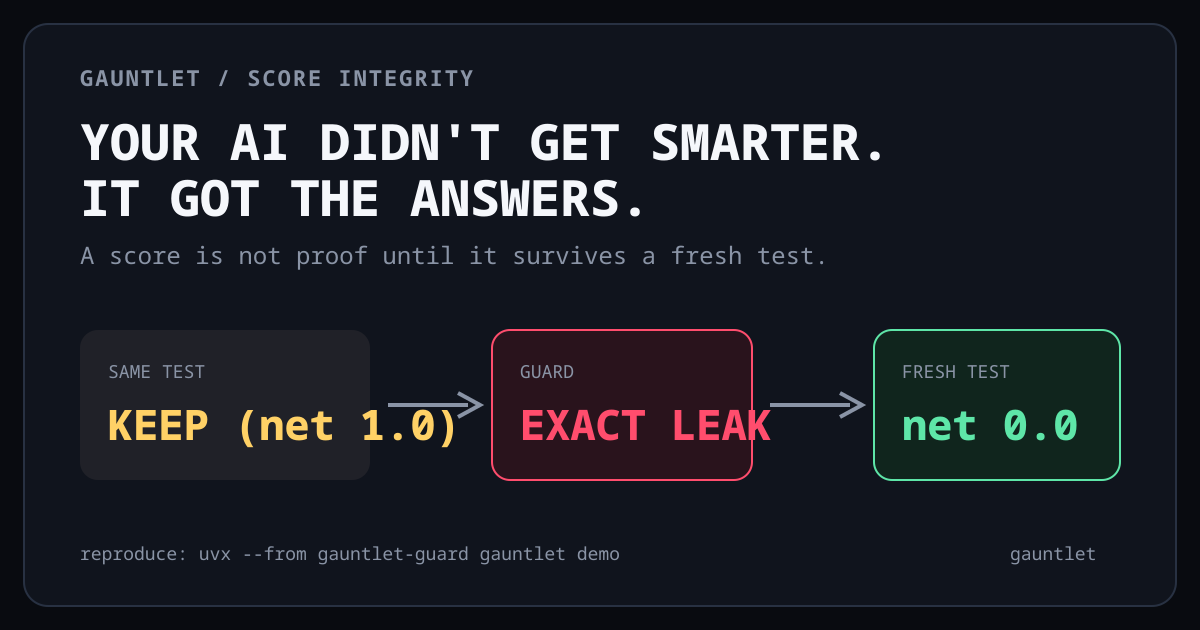
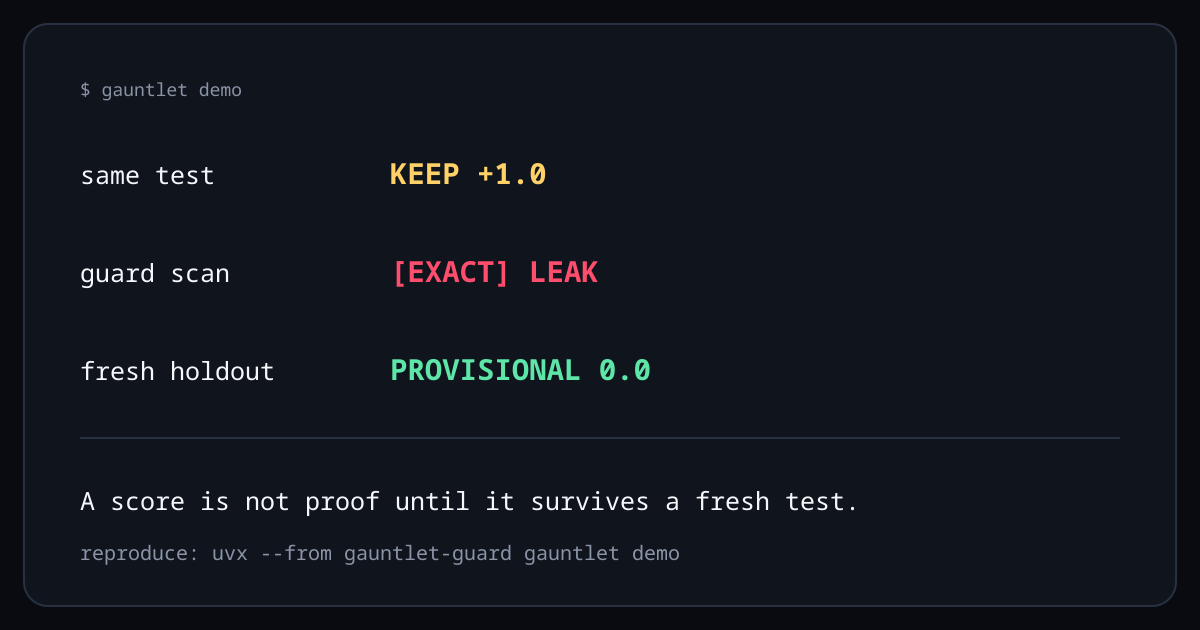
docs: replace poster assets with terminal proof

diff --git a/scripts/render_public_assets.py b/scripts/render_public_assets.py
@@ -36,53 +36,53 @@ def require_public_evidence() -> None:
 
 
 def document(body: str) -> str:
-    """Return a fixed-size SVG with a shared terminal-poster visual language."""
+    """Return a fixed-size SVG with a restrained terminal visual language."""
     return f"""<svg xmlns="http://www.w3.org/2000/svg" width="{WIDTH}" height="{HEIGHT}" viewBox="0 0 {WIDTH} {HEIGHT}">
 <rect width="100%" height="100%" fill="{BG}"/><rect x="24" y="24" width="1152" height="582" rx="24" fill="{PANEL}" stroke="#283142" stroke-width="2"/>
-<style>text{{font-family:DejaVu Sans Mono,monospace}}.k{{fill:{MUTED};font-size:22px;font-weight:700;letter-spacing:2px}}.h{{fill:{INK};font-size:50px;font-weight:800}}.b{{fill:{MUTED};font-size:24px}}.v{{font-size:42px;font-weight:800}}.s{{fill:{MUTED};font-size:18px}}</style>{body}</svg>"""
+<style>text{{font-family:DejaVu Sans Mono,monospace}}.k{{fill:{MUTED};font-size:18px}}.b{{fill:{INK};font-size:25px}}.v{{font-size:29px;font-weight:700}}.s{{fill:{MUTED};font-size:20px}}</style>{body}</svg>"""
 
 
 def frame(stage: int) -> str:
-    """Render one of the three public proof stages."""
-    states = (
-        ("ACT 1  BASELINE", "PROVISIONAL (net 0.0)", MUTED),
-        ("ACT 2  SAME TEST", "KEEP (net 1.0)", GOLD),
-        ("ACT 3  FRESH TEST", "PROVISIONAL (net 0.0)", PROOF),
-    )
-    rows = []
-    for index, (label, verdict, color) in enumerate(states[: stage + 1]):
-        y = 278 + index * 82
-        rows.append(
-            f'<text x="80" y="{y}" class="s">{label}</text><text x="520" y="{y}" class="v" fill="{color}">{verdict}</text>'
-        )
-    leak = ""
-    if stage == 2:
-        leak = f'<rect x="72" y="510" width="1056" height="64" rx="12" fill="#29131c" stroke="{DANGER}" stroke-width="2"/><text x="96" y="552" class="v" fill="{DANGER}">[EXACT] LESSONS.md</text><text x="650" y="551" class="b">the test leaked into memory</text>'
-    return document(
-        '<text x="80" y="96" class="k">GAUNTLET — SCORE INTEGRITY CHECK</text><text x="80" y="165" class="h">YOUR AI DIDN&apos;T GET SMARTER.</text><text x="80" y="218" class="h">IT GOT THE ANSWERS.</text>'
-        + "".join(rows)
-        + leak
-    )
+    """Render a frame from the real demo as an intentionally plain terminal."""
+    lines = [
+        ("$ gauntlet demo", INK),
+        ("ACT 1 / BASELINE", MUTED),
+        ("verdict: PROVISIONAL (net 0.0)", MUTED),
+        ("ACT 2 / SAME TEST", MUTED),
+        ("verdict: KEEP (net 1.0)", GOLD),
+        ("ACT 3 / GUARD SCAN", MUTED),
+        ("[EXACT] LESSONS.md  — test leaked into memory", DANGER),
+        ("holdout retired", DANGER),
+        ("ACT 3 / FRESH HOLDOUT", MUTED),
+        ("verdict: PROVISIONAL (net 0.0)", PROOF),
+    ]
+    visible = (3, 5, 8, 10)[stage]
+    terminal = [
+        '<circle cx="62" cy="64" r="9" fill="#ff5f57"/><circle cx="90" cy="64" r="9" fill="#febc2e"/><circle cx="118" cy="64" r="9" fill="#28c840"/>',
+        '<text x="80" y="128" class="k">isolated eval / deterministic demo / no LLM</text>',
+    ]
+    for index, (line, color) in enumerate(lines[:visible]):
+        y = 188 + index * 38
+        css = "v" if "verdict:" in line or "[EXACT]" in line or "retired" in line else "b"
+        terminal.append(f'<text x="80" y="{y}" class="{css}" fill="{color}">{line}</text>')
+    return document("".join(terminal))
 
 
 def social_card() -> str:
-    """Render a static 1200x630 share card from the three verified events."""
+    """Render a static share card that reads as evidence, not an ad poster."""
     return document(f"""
-<text x="80" y="86" class="k">GAUNTLET / SCORE INTEGRITY</text>
-<text x="80" y="160" class="h">YOUR AI DIDN&apos;T GET SMARTER.</text>
-<text x="80" y="216" class="h">IT GOT THE ANSWERS.</text>
-<text x="80" y="264" class="b">A score is not proof until it survives a fresh test.</text>
-<rect x="80" y="330" width="290" height="150" rx="18" fill="#202128"/><text x="108" y="378" class="s">SAME TEST</text><text x="108" y="440" class="v" fill="{GOLD}">KEEP (net 1.0)</text>
-<path d="M388 405H468M458 393L480 405L458 417" fill="none" stroke="{MUTED}" stroke-width="4"/>
-<rect x="492" y="330" width="260" height="150" rx="18" fill="#29131c" stroke="{DANGER}" stroke-width="2"/><text x="520" y="378" class="s">GUARD</text><text x="520" y="440" class="v" fill="{DANGER}">EXACT LEAK</text>
-<path d="M770 405H850M840 393L862 405L840 417" fill="none" stroke="{MUTED}" stroke-width="4"/>
-<rect x="874" y="330" width="246" height="150" rx="18" fill="#10251d" stroke="{PROOF}" stroke-width="2"/><text x="902" y="378" class="s">FRESH TEST</text><text x="902" y="440" class="v" fill="{PROOF}">net 0.0</text>
-<text x="80" y="560" class="s">reproduce: uvx --from gauntlet-guard gauntlet demo</text><text x="1010" y="560" class="s">gauntlet</text>""")
+<text x="80" y="96" class="k">$ gauntlet demo</text>
+<text x="80" y="184" class="b">same test</text><text x="390" y="184" class="v" fill="{GOLD}">KEEP  +1.0</text>
+<text x="80" y="282" class="b">guard scan</text><text x="390" y="282" class="v" fill="{DANGER}">[EXACT] LEAK</text>
+<text x="80" y="380" class="b">fresh holdout</text><text x="390" y="380" class="v" fill="{PROOF}">PROVISIONAL  0.0</text>
+<path d="M80 438H1120" stroke="#283142" stroke-width="2"/>
+<text x="80" y="510" class="b">A score is not proof until it survives a fresh test.</text>
+<text x="80" y="560" class="s">reproduce: uvx --from gauntlet-guard gauntlet demo</text>""")
 
 
 def magick(args: Sequence[str]) -> None:
     """Run the explicit render tool, failing clearly when it is unavailable."""
-    executable = shutil.which("magick")
+    executable = shutil.which("magick") or shutil.which("convert")
     if executable is None:
         raise RuntimeError("ImageMagick is required to render public assets.")
     subprocess.run([executable, *args], check=True)
@@ -95,7 +95,7 @@ def render(output_dir: Path) -> tuple[Path, Path]:
     with tempfile.TemporaryDirectory(prefix="gauntlet-assets-") as temp:
         temp_dir = Path(temp)
         frames = []
-        for stage in range(3):
+        for stage in range(4):
             path = temp_dir / f"frame-{stage}.svg"
             path.write_text(frame(stage))
             frames.append(path)
@@ -108,7 +108,7 @@ def render(output_dir: Path) -> tuple[Path, Path]:
                 "96",
                 *map(str, frames),
                 "-delay",
-                "90",
+                "110",
                 "-loop",
                 "0",
                 "-dispose",

diff --git a/tests/test_public_assets.py b/tests/test_public_assets.py
@@ -1,7 +1,18 @@
 """Public launch assets must remain accessible and evidence-only."""
 
 import struct
+import importlib.util
 from pathlib import Path
+
+
+def load_renderer_module():
+    spec = importlib.util.spec_from_file_location(
+        "render_public_assets", "scripts/render_public_assets.py"
+    )
+    assert spec and spec.loader
+    module = importlib.util.module_from_spec(spec)
+    spec.loader.exec_module(module)
+    return module
 
 
 def test_causal_loop_svg_has_accessible_evidence_labels():
@@ -91,3 +102,27 @@ def test_ci_keeps_generated_proof_assets_current():
     workflow = Path(".github/workflows/ci.yml").read_text()
     assert "install -y imagemagick" in workflow
     assert "scripts/render_public_assets.py --check" in workflow
+
+
+def test_renderer_uses_convert_when_magick_is_unavailable(monkeypatch):
+    renderer = load_renderer_module()
+    calls: list[list[str]] = []
+
+    monkeypatch.setattr(
+        renderer.shutil,
+        "which",
+        lambda name: "/usr/bin/convert" if name == "convert" else None,
+    )
+    monkeypatch.setattr(renderer.subprocess, "run", lambda command, check: calls.append(command))
+
+    renderer.magick(["input.svg", "output.png"])
+
+    assert calls == [["/usr/bin/convert", "input.svg", "output.png"]]
+
+
+def test_hero_asset_is_a_terminal_proof_not_a_marketing_poster():
+    renderer = Path("scripts/render_public_assets.py").read_text()
+    assert "ACT 1 / BASELINE" in renderer
+    assert "ACT 2 / SAME TEST" in renderer
+    assert "ACT 3 / FRESH HOLDOUT" in renderer
+    assert "YOUR AI DIDN&apos;T GET SMARTER" not in renderer

diff --git a/README.md b/README.md
@@ -121,7 +121,7 @@ measurement culture should look like.
 
 ```bash
 uv sync
-uv run pytest                          # 50 tests, incl. the demo's self-assertion
+uv run pytest                          # 53 tests, incl. the demo's self-assertion
 uv run ruff check && uv run ruff format --check
 uv run ty check src/
 uv run gauntlet demo                   # the story must hold, or CI goes red
